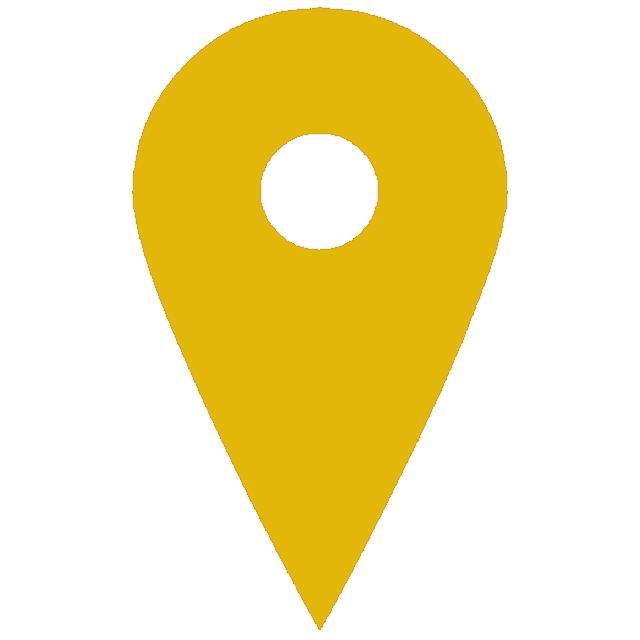
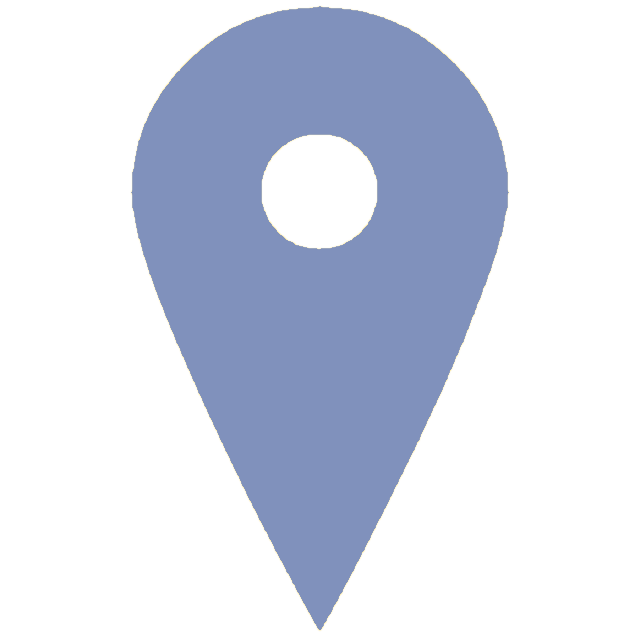
Add files via upload

diff --git a/style/style.css b/style/style.css
@@ -18,9 +18,9 @@ body {
     font-size: 15vmax;
     letter-spacing: 20px;
     word-spacing: 4.6px;
-    color: #E3B709;
+    color: white;
     font-weight: 500;
-    width: 100%;
+    width: 90%;
     margin: auto;
 }
 
@@ -30,7 +30,7 @@ body {
 }
 
 #localisation p {
-    color: #e3b709;
+    color: #8091BC;
     display: inline;
     font-family: Impact, Charcoal, sans-serif;
     font-size: 60px;
